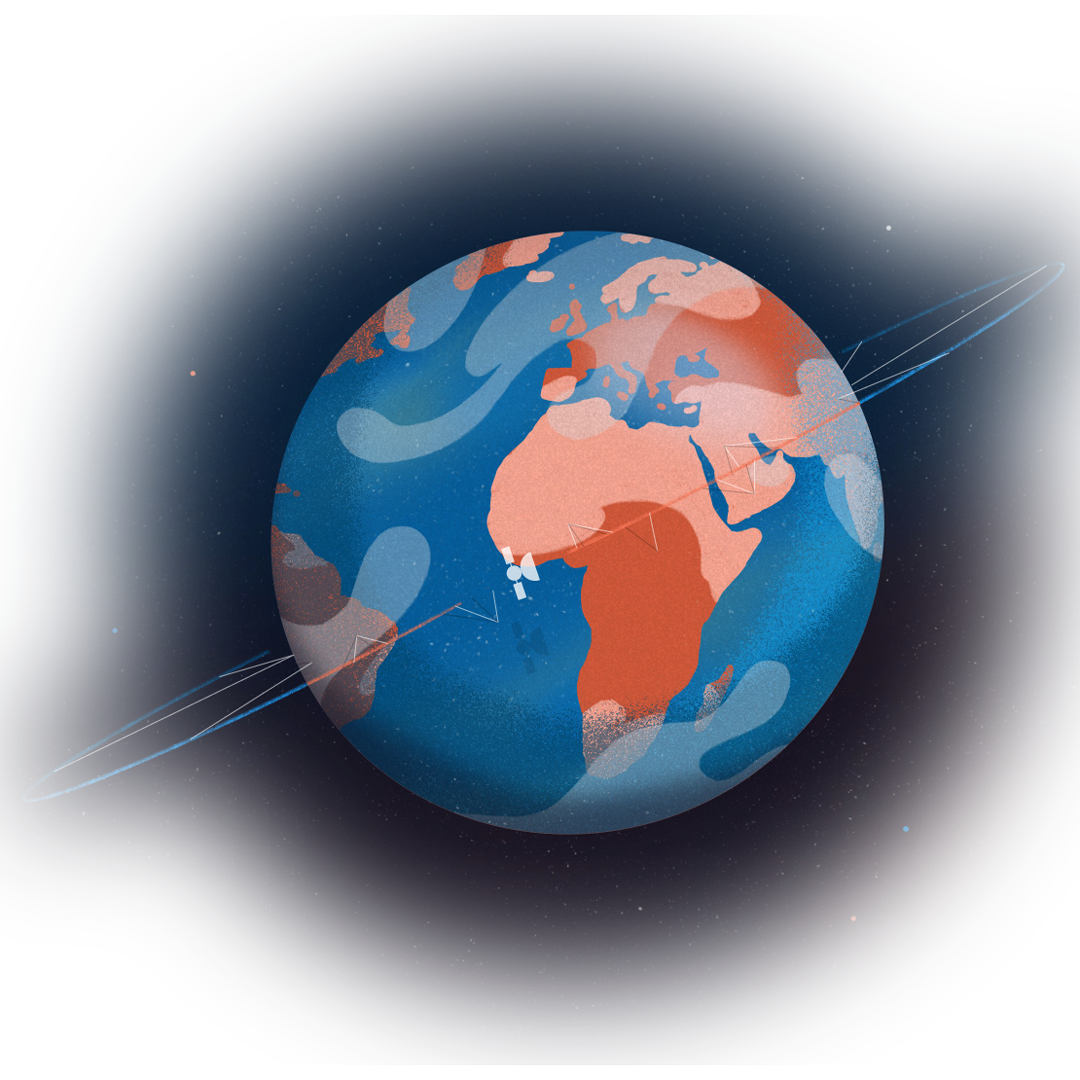
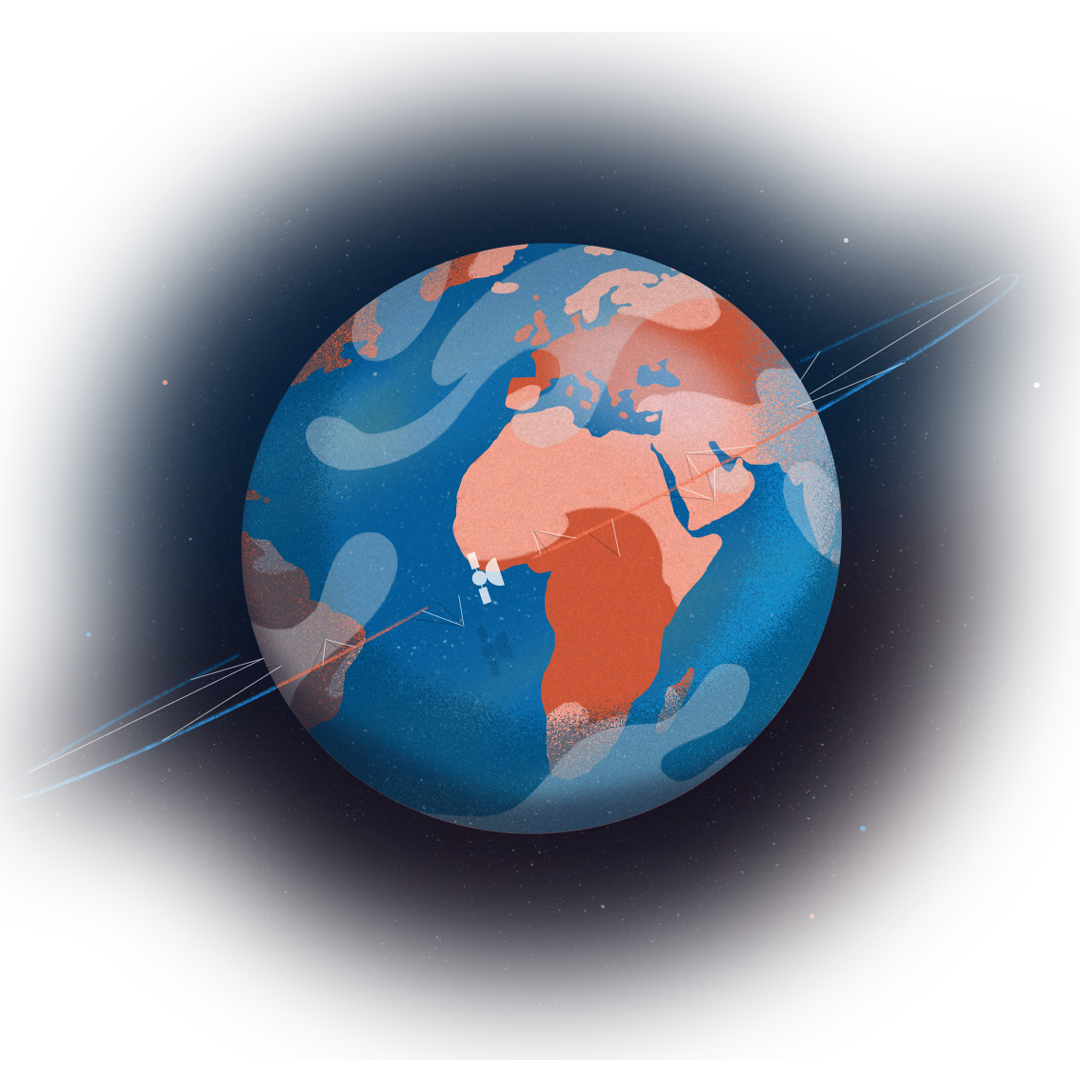
More edits to top section of welcome page

diff --git a/src/app/app-styles.scss b/src/app/app-styles.scss
@@ -613,11 +613,13 @@ COPY TEXT
 WELCOME VIEW
 ----------- */
 .welcome__wrapper {
+  max-width: 960px;
+  margin: 0 auto;
 }
 
 .welcome__section--one {
   background-color: $primary-theme-color;
-  padding: 3.5em 1em;
+  padding: 3.5em 0em;
 }
 
 .welcome__section--two {
@@ -632,8 +634,8 @@ WELCOME VIEW
 
 @media (min-width: 600px) {
   .welcome__section--one {
-    background: linear-gradient(0deg, #081122 0%, #004f85 50.52%, #fc7756 100%);
-    padding: 10em 4em;
+    // background: linear-gradient(0deg, #081122 0%, #004f85 50.52%, #fc7756 100%);
+    padding: 7em 4em;
   }
 
   .welcome__section--two {
@@ -657,30 +659,51 @@ WELCOME VIEW
 }
 
 .welcome__logo-image {
-  max-width: 480px;
+  max-width: 260px;
+  position: relative;
+  z-index: 1;
+}
+
+@media (min-width: 600px) {
+  .welcome__logo-image {
+    max-width: 300px;
+  }
 }
 
 .welcome__trusat-tagline {
   font-size: 16px;
+  letter-spacing: 0.08em;
   line-height: 19px;
   margin: 1em 0;
+  position: relative;
+  z-index: 1;
 }
 
 @media (min-width: 600px) {
   .welcome__trusat-tagline {
-    font-size: 32px;
-    letter-spacing: 0.04em;
+    font-size: 18px;
     line-height: 37px;
     margin: 1em 0;
   }
 }
 
 .welcome__globe-image {
-  max-width: 650px;
+  // max-width: 650px;
+  margin-top: -3em;
+}
+
+@media (min-width: 600px) {
+  .welcome__globe-image {
+    max-width: 800px;
+    margin-top: -8em;
+  }
+  
 }
 
 .welcome__title-intro-wrapper {
-  margin-bottom: 3em;
+  margin: -2em 2em 3em 2em;
+  position: relative;
+  z-index: 1;
 }
 
 .welcome__illustration-join-wrapper {
@@ -754,7 +777,7 @@ WELCOME VIEW
 .welcome__iframe-wrapper {
   position: relative;
   padding-bottom: 56.25%;
-  padding-top: 30px;
+  padding-top: 2em;
   height: 0;
   overflow: hidden;
 }
